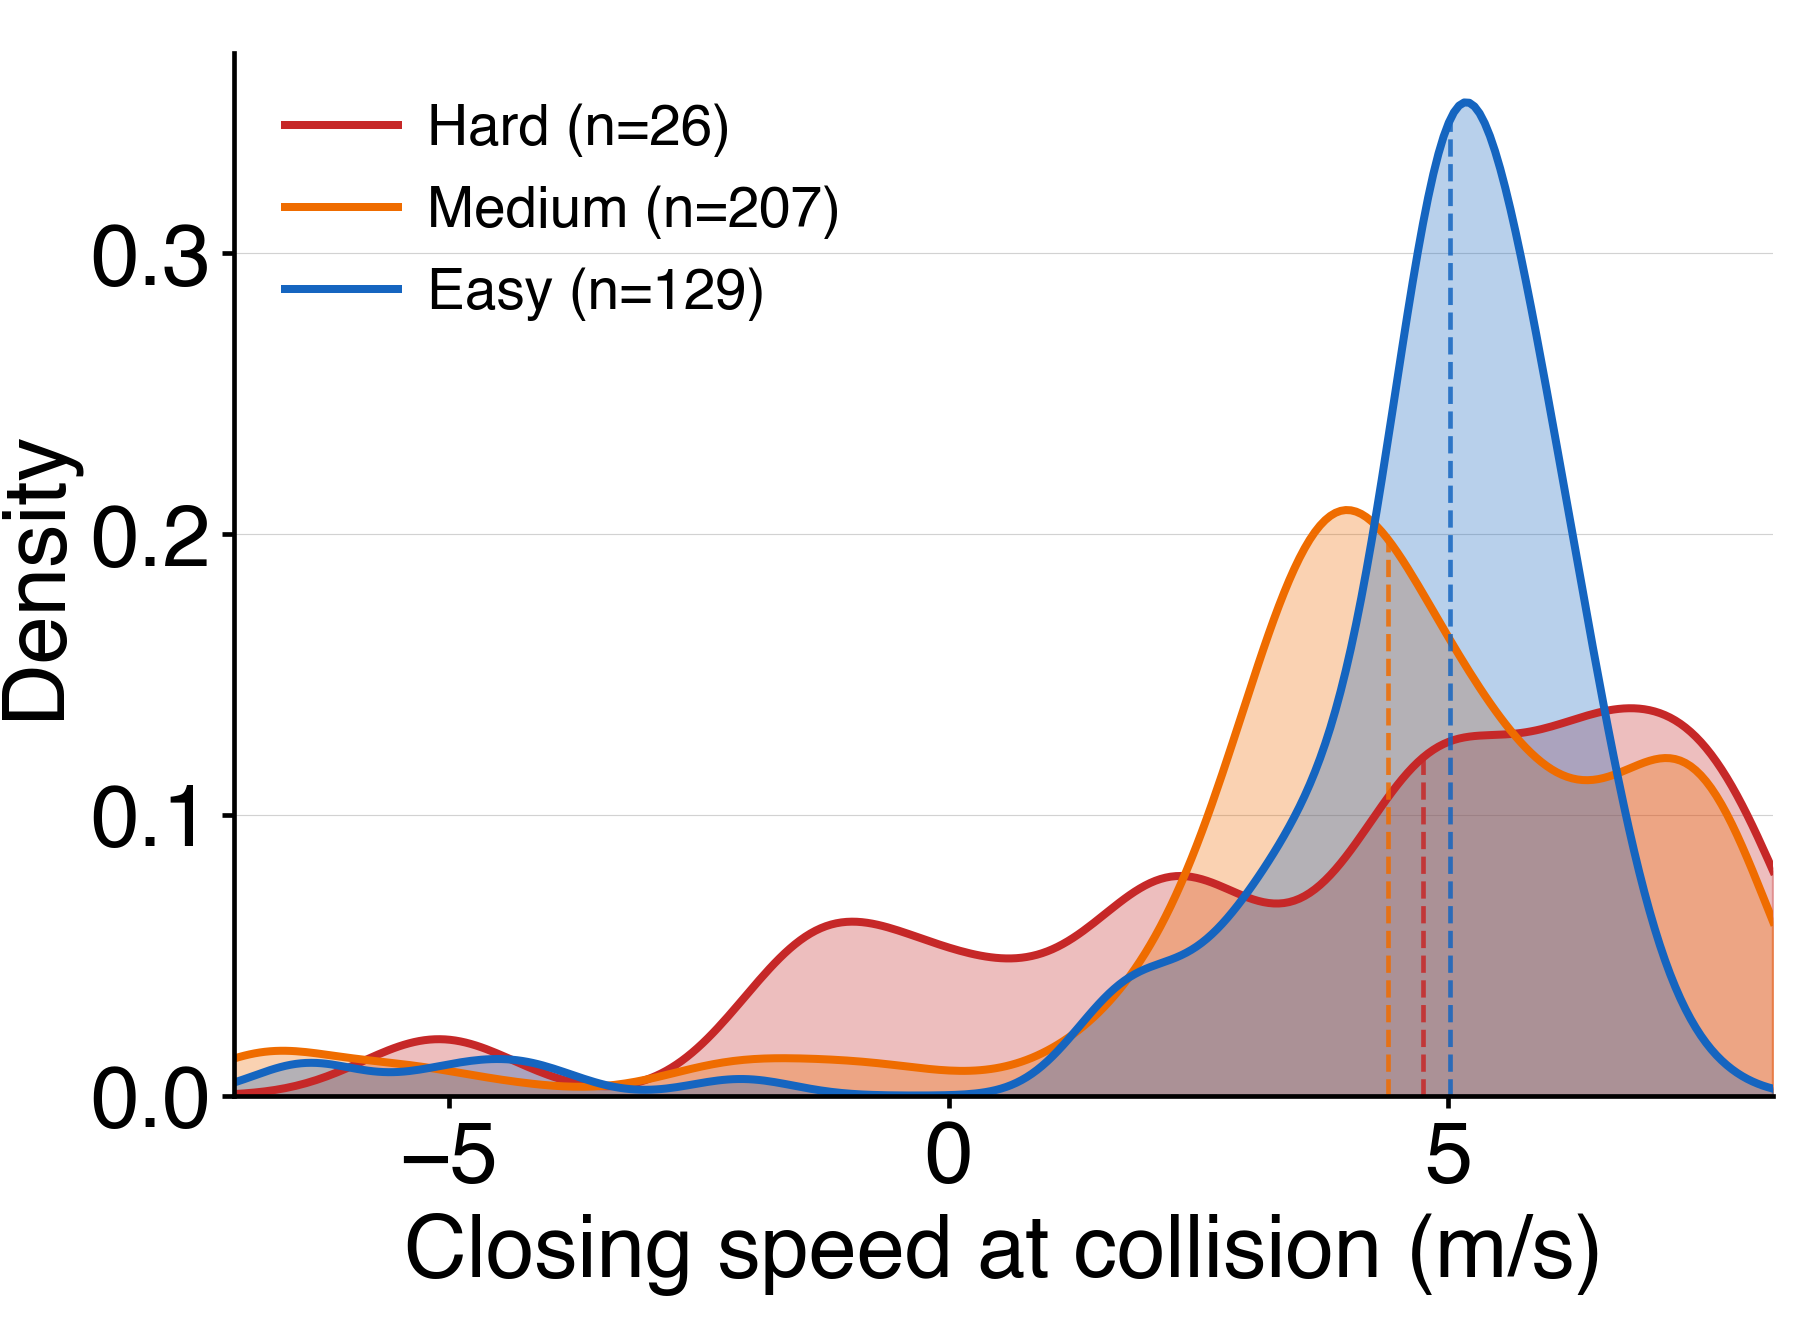
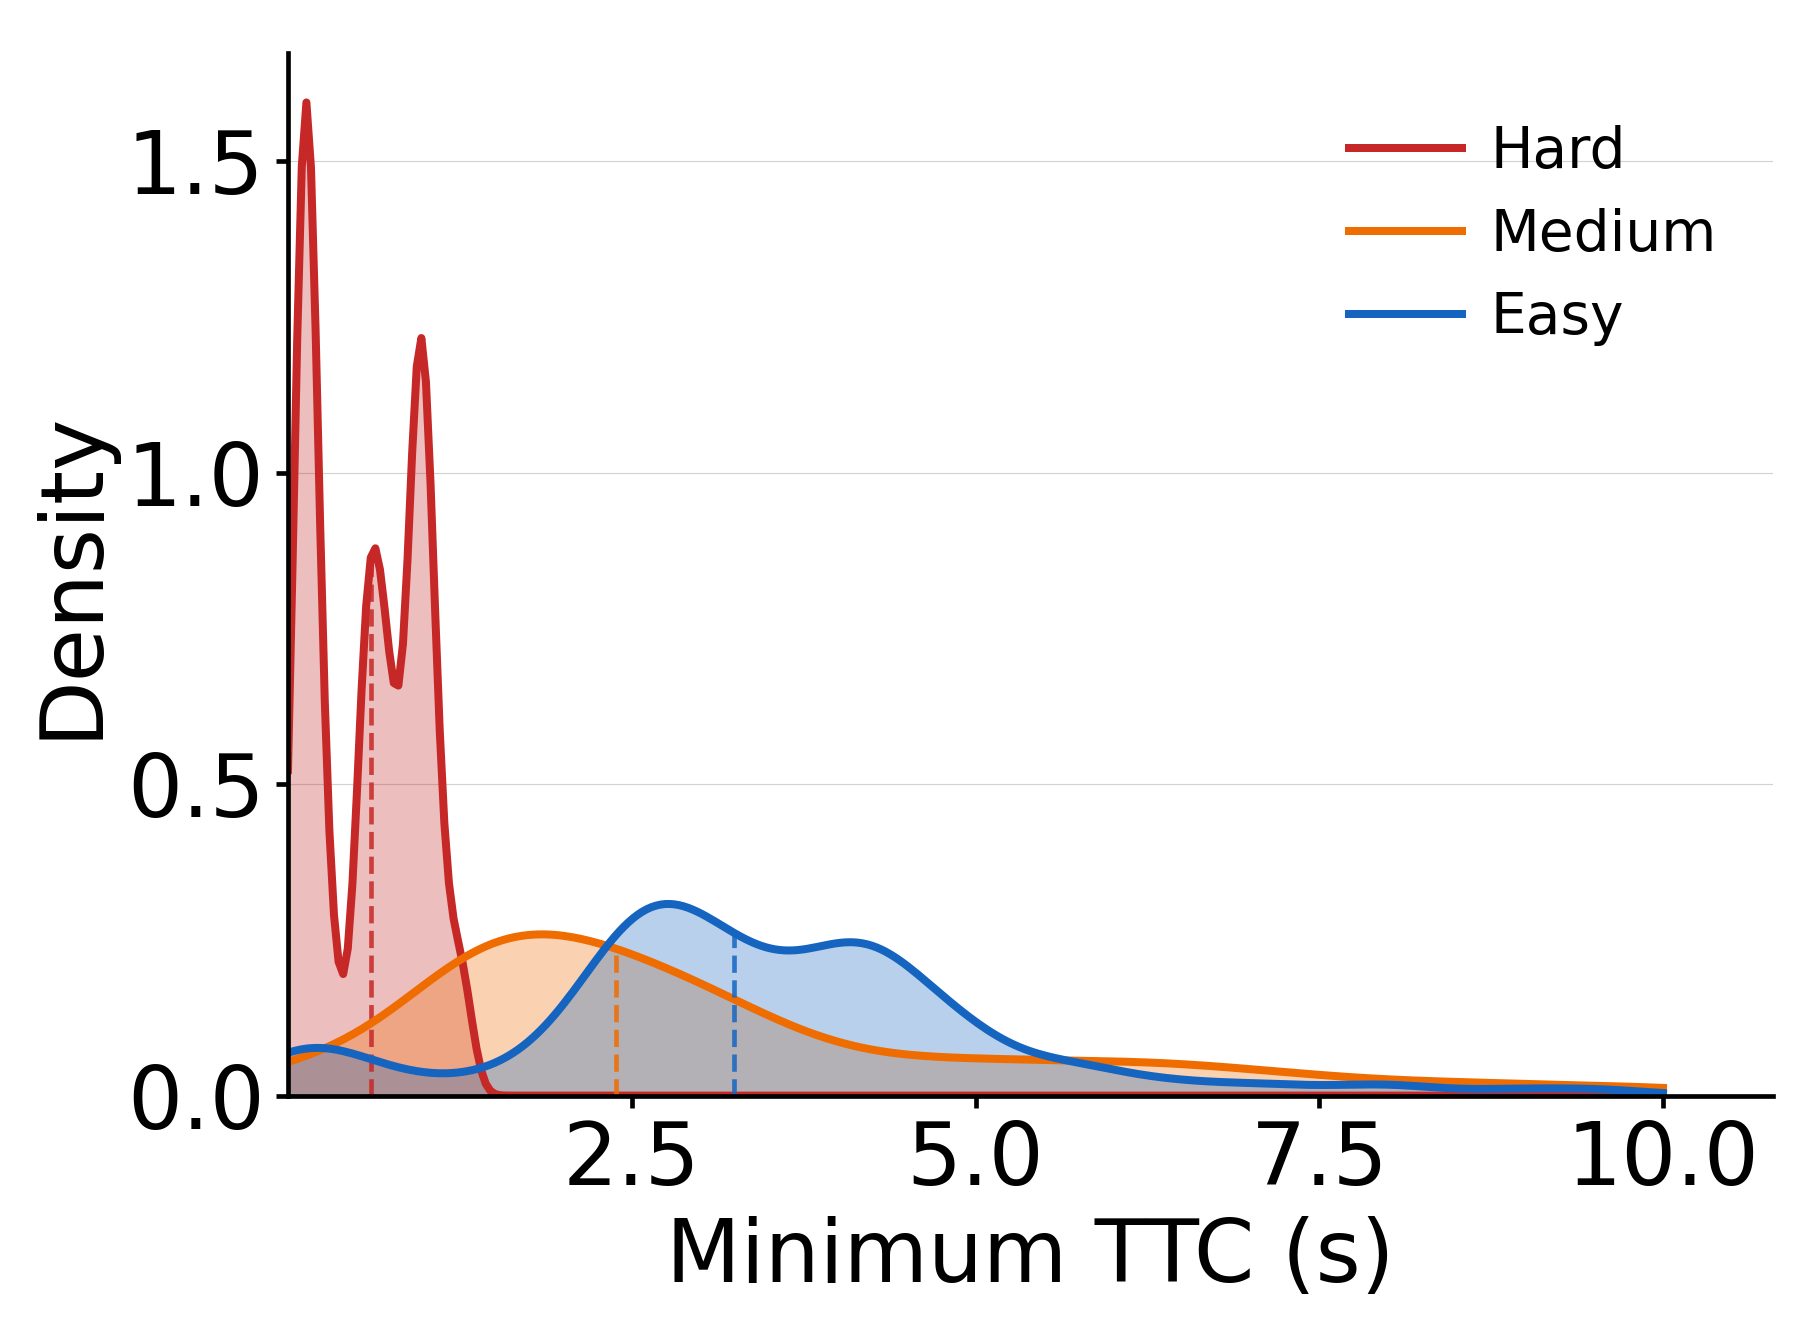
1

Changed region(s): [[0.0, 0.0621, 0.9956, 0.9939]]

diff --git a/index.html b/index.html
@@ -593,8 +593,8 @@
               <img src="static/images/fig4_panel_e.png?v=20260512" alt="Adversary speed at collision" />
             </div>
             <div class="attr-cell shift-f">
-              <div class="attr-title"><strong>f.</strong> Approach urgency</div>
-              <img src="static/images/fig4_panel_f.png?v=20260512" alt="Longitudinal closing speed at collision" />
+              <div class="attr-title"><strong>f.</strong> Minimum TTC</div>
+              <img src="static/images/fig4_panel_f.png?v=20260604" alt="Minimum time-to-collision by FSM criticality tier" />
             </div>
           </div>
           <p class="figure-caption" style="margin-top:14px;">
@@ -602,7 +602,7 @@
             <strong>(a–c)</strong> Representative attribution disagreements in which <em>FSM fails</em> (a), <em>CC-JP fails</em> (b), and <em>RSS fails</em> (c). Adversary trajectory in <span style="color:#E53935;font-weight:600;">red</span>; target trajectory in <span style="color:#1565C0;font-weight:600;">blue</span>; the target's stop position under each reference model is shown as a front-edge line (<span style="color:#9C27B0;font-weight:600;">purple</span>, FSM; <span style="color:#EF6C00;font-weight:600;">orange</span>, CC-JP; <span style="color:#2E7D32;font-weight:600;">green</span>, RSS).<br>
             <strong>(d)</strong> Max braking deficit BD, box-and-whisker per FSM criticality tier (Easy / Medium / Hard); box spans the interquartile range, whiskers extend to the 5th–95th percentiles, points are outliers, and median is annotated. BD&nbsp;&gt;&nbsp;0 indicates that required stopping distance exceeded the available gap.<br>
             <strong>(e)</strong> Adversary speed at collision, raincloud plot per FSM criticality tier (median annotated).<br>
-            <strong>(f)</strong> Longitudinal closing speed at collision, kernel-density estimate per criticality tier (median annotated).
+            <strong>(f)</strong> Minimum TTC, kernel-density estimate per FSM criticality tier (median annotated; infinite TTC values are omitted from the density estimate).
           </p>
         </figure>
       </div>
